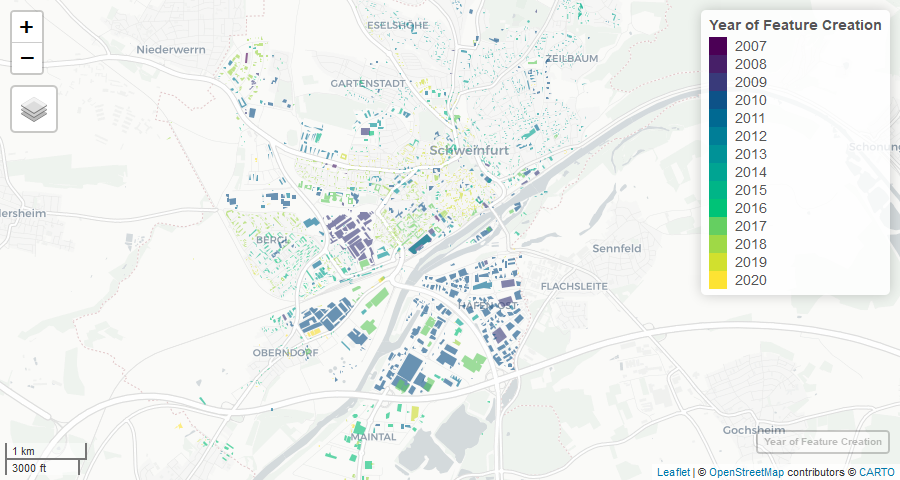
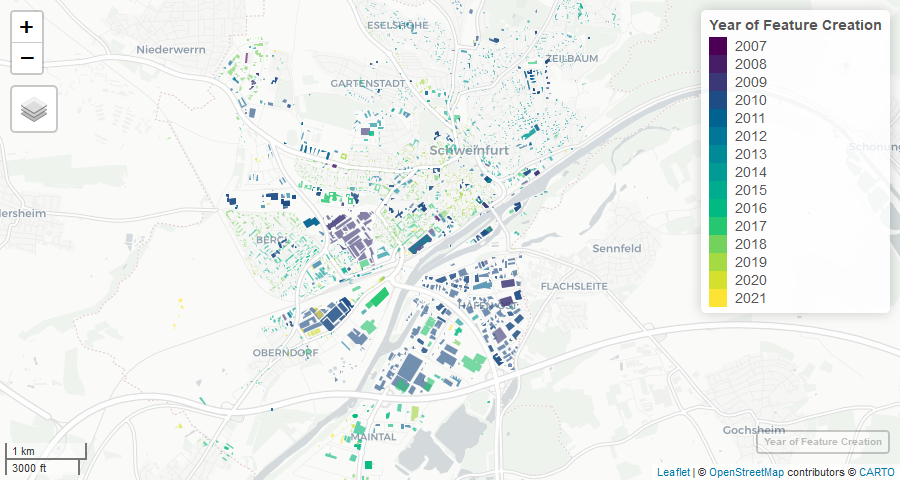
use full history in buildings creation year example

diff --git a/README.md b/README.md
@@ -57,7 +57,7 @@ library(ohsome)
 The metadata is stored in `.ohsome_metadata`. You can print it to the
 console to get more details.
 
-### Aggregate OpenStreetMap elements
+### Aggregating OpenStreetMap elements
 
 This early version of the ohsome R package provides wrapper functions
 for the elements aggregation endpoints only. With these functions you
@@ -194,11 +194,12 @@ their parameters, consult the
 <a href="https://docs.ohsome.org/ohsome-api/stable/endpoints.html" target="blank">ohsome API documentation</a>
 or have a look at `ohsome_endpoints`.
 
-Here’s a query to extract the geometries of building polygons:
+Here’s a query to extract the full history of OSM building polygon
+elements with their geometries:
 
 ``` r
 q <- ohsome_query(
-    c("elements", "geometry"), 
+    c("elementsFullHistory", "geometry"), 
     filter = "building=* and geometry:polygon", 
     clipGeometry = "false"
 )
@@ -219,19 +220,23 @@ schweinfurt <- franconia |> filter(NAME_ASCI == "Schweinfurt, Kreisfreie Stadt")
 q <- set_boundary(q, schweinfurt)
 ```
 
-Here, we request OSM building geometries for the district of Schweinfurt
-City at the end of each year from 2007 to 2020, filter for the earliest
-version of each feature (by OSM id) that still exists in 2020 and
-visualise all building features with their year of creation:
+Here, we request the history of OSM buildings for the district of
+Schweinfurt City, filter for features that still exist and visualise all
+building features with their year of creation:
 
 ``` r
+meta <- ohsome_get_metadata()
+start <- as.Date(meta$extractRegion$temporalExtent[1])
+end <- as.Date(meta$extractRegion$temporalExtent[2])
+
 m <- q |> 
-    set_time("2007-12-31T23:59:59/2020-12-31T23:59:59/P1Y") |>
+    set_time(paste(start, end, sep = ",")) |>
+    set_properties("metadata") |>
     ohsome_post() |>
     janitor:: clean_names() |>
-    mutate(year = format(snapshot_timestamp, "%Y")) |>
+    mutate(year = format(valid_from, "%Y")) |>
     group_by(osm_id) |>
-    filter(any(year == 2020)) |>
+    filter(any(valid_to == end)) |>
     top_n(-1, wt = year) |>
     mapview(zcol = "year", lwd = 0, layer.name = "Year of Feature Creation")
 
